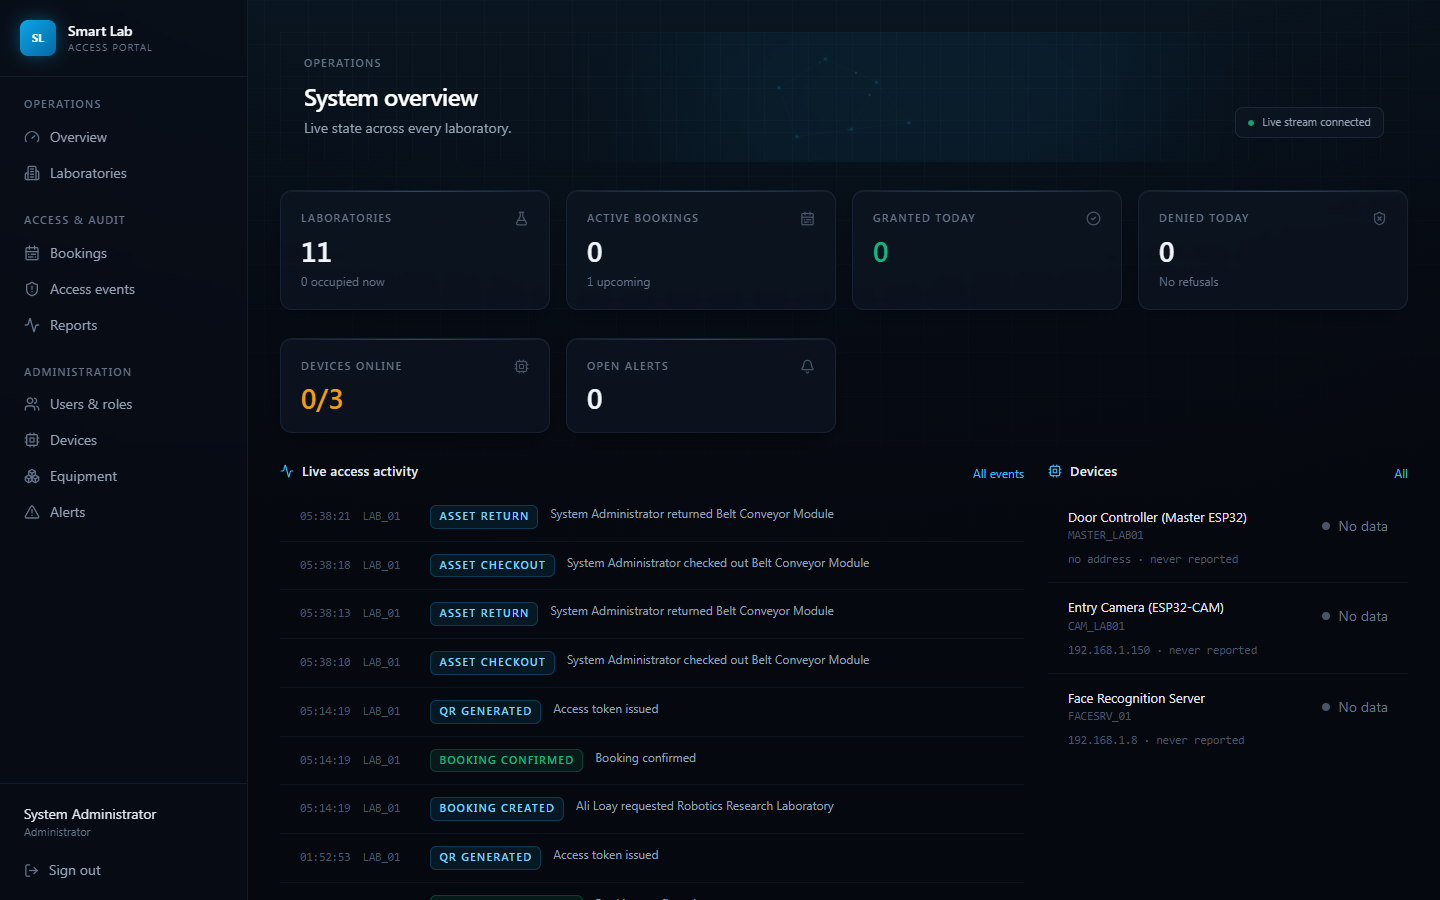
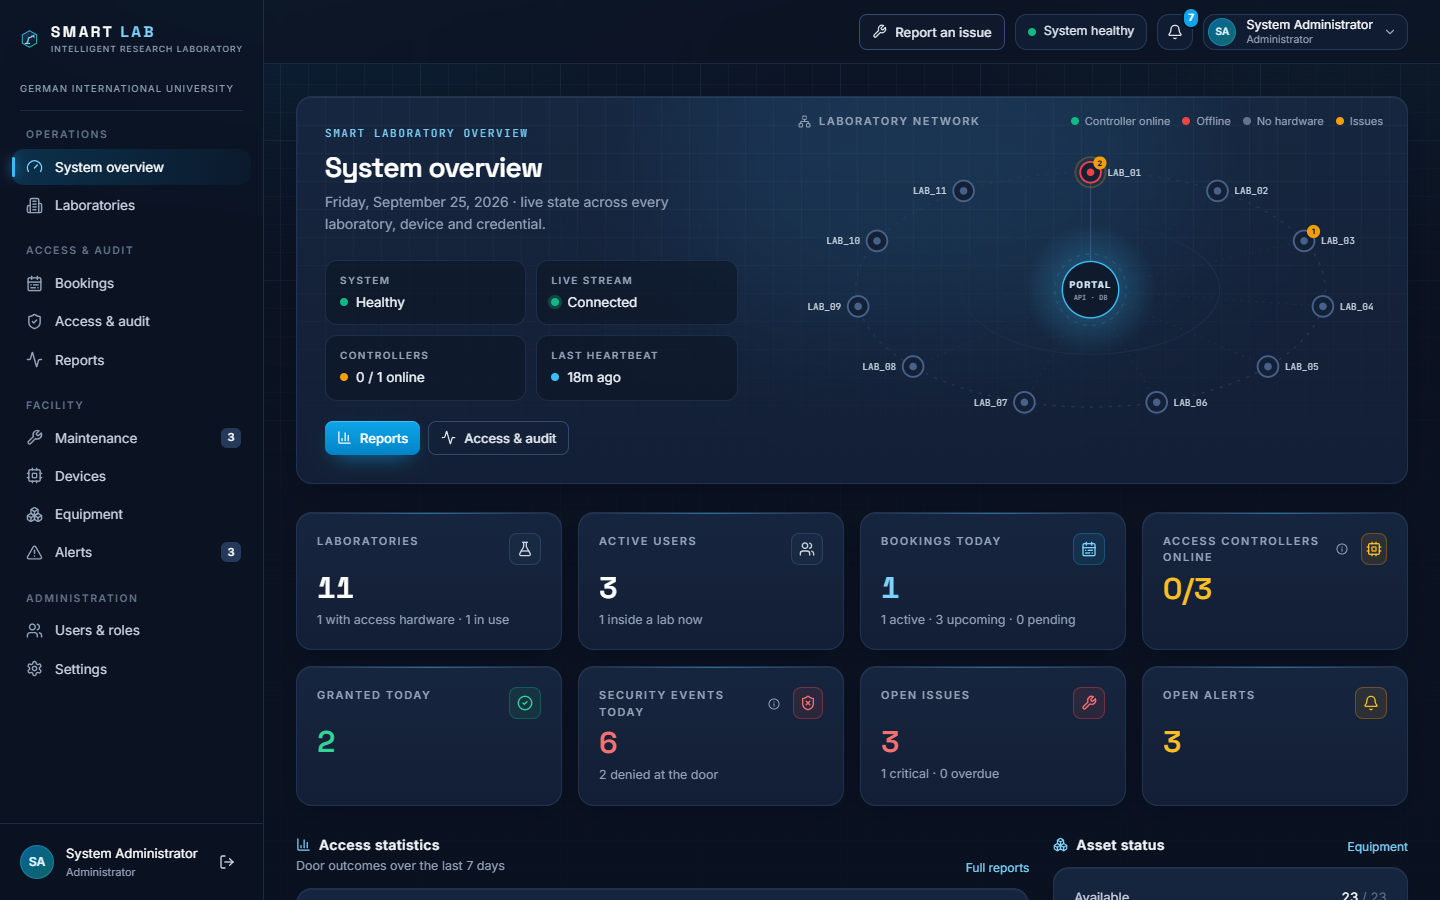
docs: README for maintenance, traceability, tests and new screenshots
Documents the issue workflow, why an exit is only recorded when observed,
the new privacy rules, 134 backend tests plus the browser navigation test,
the schema guard on upgrade, the optional heartbeat components and
EXIT_RECORDED event, and new limitations. Screenshots are of the new UI
with demo data, labelled as such.

diff --git a/README.md b/README.md
@@ -18,23 +18,38 @@ Research Laboratory Management System*, German International University, Cairo.
 
 ## Features
 
-- **Laboratory booking** with conflict detection across 11 laboratories
+- **Laboratory booking** across 11 laboratories, with live availability and conflict detection
 - **Time-bound QR credentials**, valid only for one lab and only inside the booking window
 - **Two-factor door access**: QR code or RFID card, then fingerprint or face recognition
-- **Live admin dashboard** with a WebSocket access timeline, device health and alerts
+- **Session traceability**: every booking reconstructs to the second — credential, both
+  factors and their identities, result, entry, door cycle — and an exit only when one is observed
+- **Maintenance workflow**: anyone can report a broken, missing or unsafe item with photos in
+  about a minute; staff triage, assign, fix and record it, with a full audit timeline
+- **Role-specific experiences** for students, laboratory staff and administrators
+- **Live operations**: authenticated WebSocket stream, device heartbeats with automatic
+  offline alerts, and in-portal notifications
 - **Full audit trail** of every attempt, with the reason it was allowed or refused, exportable to CSV
-- **Equipment checkout** and role-based access for students, lab staff and administrators
 - **Fails closed**: if the backend is down, a booking QR opens nothing
 
 ## Screenshots
 
+Demo data. The door events are simulated through the same device API the ESP32
+master uses. Laboratory images are illustrations of each discipline, not
+photographs of the rooms.
+
 | Sign in | Student dashboard |
 |---|---|
 | ![Sign in](docs/screenshots/login.png) | ![Student dashboard](docs/screenshots/student-dashboard.png) |
-| **Book a laboratory** | **Time-bound access QR** |
-| ![Booking wizard](docs/screenshots/book.png) | ![Booking QR credential](docs/screenshots/booking-qr.png) |
-| **Admin overview (live)** | **Access audit trail** |
-| ![Admin overview](docs/screenshots/admin-overview.png) | ![Access events](docs/screenshots/admin-access-events.png) |
+| **Laboratory network** | **A laboratory's control panel** |
+| ![Laboratories](docs/screenshots/laboratories.png) | ![Lab control panel](docs/screenshots/lab-control-panel.png) |
+| **Booking traced end to end** | **Time-bound access QR** |
+| ![Booking trace](docs/screenshots/booking-trace.png) | ![Access QR](docs/screenshots/access-qr.png) |
+| **Report an issue** | **Maintenance queue** |
+| ![Report an issue](docs/screenshots/report-issue.png) | ![Maintenance queue](docs/screenshots/maintenance-queue.png) |
+| **Issue workflow** | **Access monitor** |
+| ![Issue detail](docs/screenshots/issue-detail.png) | ![Access monitor](docs/screenshots/access-monitor.png) |
+| **System overview (admin)** | |
+| ![Admin overview](docs/screenshots/admin-overview.png) | |
 
 ---
 
@@ -136,6 +151,11 @@ npm run dev
 
 Open <http://localhost:5173>.
 
+**Upgrading an existing database:** always run `alembic upgrade head` after
+pulling. The API and `seed.py` refuse to start against a migrated database
+that is behind the code, and print that command, rather than half-creating
+new tables.
+
 ### Sign in
 
 | Email | Password | Role |
@@ -188,6 +208,54 @@ check this first if a valid booking is being denied.
 
 ---
 
+## Traceability: entry is not exit
+
+Opening a booking in the portal shows the whole session, reconstructed from
+the door's own events: the credential and how often it was accepted, step 1
+(QR or RFID) and the identity it resolved to, step 2 (face or fingerprint)
+and its identity, the result with the refusal reason if any, the first entry
+compared with the booked start, and the door opening and closing - every
+step timestamped to the second.
+
+**The door has no exit reader**, so the portal does not pretend to know when
+someone left. The door closing a few seconds after entry is recorded as part
+of the entry, *not* as an exit (earlier versions ended the session there,
+which made every visit look seconds long). A session ends with an observed
+exit (`EXIT_RECORDED`, which the device API already accepts), with the
+booking window closing, or with the door never being opened, and the portal
+states which. Duration inside is shown only when an exit was actually
+recorded.
+
+## Maintenance and issue reporting
+
+Anyone can report a laboratory problem - damaged, missing, malfunctioning,
+unsafe, software, network or access-control hardware - with photos, in about
+a minute. Reports arrive pre-filled from wherever the person started (a lab,
+an equipment item, a door device, a refused access event).
+
+- **Tickets** are numbered `ISS-YYYY-NNNNNN` and linked to the laboratory and,
+  where relevant, the equipment item, device or access event - each link
+  validated to belong to that laboratory.
+- **Workflow:** open -> acknowledged -> in progress <-> waiting for parts ->
+  resolved (notes required) -> closed (administrators), with rejection and
+  reopening. Every change writes a history row: the reporter's timeline and
+  the audit trail are the same records.
+- **Photos** are validated by decoding them (not by extension), rotated
+  upright, stripped of metadata including GPS position, scaled and
+  thumbnailed, and served only to people allowed to see the issue.
+  Maintenance photos are stored as *before*/*after* next to, never over, the
+  reporter's photos. Storage sits behind an interface: local disk now,
+  S3/MinIO later without schema changes.
+- **Permissions are enforced by the API:** students see only their own
+  reports (others are a 404), cannot move them through the workflow, and
+  never see staff-internal notes.
+- **Service levels** make "overdue" a published rule (critical 24 h, high 72 h,
+  medium 7 days, low 14 days, configurable).
+- **Notifications** in the portal for new and critical reports, assignment,
+  escalation, and every status change the reporter should know about.
+
+---
+
 ## Security properties, and how each is enforced
 
 | Property | Where it is enforced |
@@ -201,6 +269,9 @@ check this first if a valid booking is being denied.
 | Students cannot see each other's bookings | ownership check returns **404**, not 403 — existence is private |
 | Passwords are never stored | bcrypt via passlib |
 | No biometric material in the database | templates stay in the AS608; face images stay in `dataset/` |
+| Students cannot read other people's activity | lab activity, the live WebSocket stream and issue lists are scoped server-side |
+| The live stream is not a side door | the WebSocket requires the same JWT as the REST API |
+| Issue photos are not public files | served only through authenticated routes; EXIF/GPS stripped on upload |
 
 Every one of these has a test. See below.
 
@@ -219,16 +290,34 @@ DATABASE_URL=postgresql+psycopg://postgres:<password>@localhost:5432/smartlab_te
 Use a dedicated test database, never your real one. GitHub Actions runs the
 same suite against a PostgreSQL service container on every push.
 
-**61 tests, against real PostgreSQL** — not SQLite, because `TIMESTAMPTZ`
+**134 tests, against real PostgreSQL** — not SQLite, because `TIMESTAMPTZ`
 comparison is precisely what must not be tested on a different engine than
 production runs.
-
-Two suites:
 
 - `test_authorization.py` — every non-negotiable rule: QR before / during /
   after its window, wrong lab, cancelled, unknown, revoked, inactive user,
   identity mismatch, booking conflicts, and role isolation between students.
 - `test_qr_pipeline.py` — the hard requirement, below.
+- `test_issues.py` — the maintenance workflow: scoping, validation,
+  asset/lab consistency, photo validation and privacy, transitions, the
+  ordered audit trail, internal notes, links to equipment and labs.
+- `test_traceability.py` — the door closing is never an exit, full booking
+  traces, supersession and booking-end handling.
+- `test_portal.py` — availability without identities, role scoping,
+  notifications, device offline detection, and WebSocket authentication and
+  cross-thread delivery.
+
+### Navigation in a real browser
+
+```bash
+cd frontend
+npm run test:e2e            # E2E_CPU_THROTTLE=6 to emulate a slow machine
+```
+
+Signs in as each role and walks every route - sidebar clicks, the student
+journey from laboratory to QR, rapid clicking, back/forward, direct URLs,
+reloads and an expired session - failing on any blank or invisible page,
+error screen or console error. CI runs it against the production build.
 
 ### End-to-end
 
@@ -309,6 +398,15 @@ What changed, and nothing else:
   payloads; legacy still works locally so the bench demo survives the portal
   being off
 
+The device API also accepts, without firmware changes being required:
+
+- an `EXIT_RECORDED` event (for a future exit button or reader), which is
+  the only thing that gives a session an exit time;
+- optional `components` in the heartbeat, e.g.
+  `{"rfid": true, "fingerprint": true, "relay_locked": true}`. Until the
+  firmware sends them, the portal labels those states "not reported" instead
+  of inferring them.
+
 What did **not** change, verified by diff: all 26 safety-critical constants
 (pins, `RELAY_LOCKED_LEVEL = HIGH`, `DENY_ALERT_ENABLED = false`, freshness
 windows, timeouts), and the relay write sites — still exactly two, both in the
@@ -326,11 +424,20 @@ state machine, neither reachable from network code.
    run face recognition at usable speed.
 3. **Sensor data is structure only.** `sensor_readings` exists and the lab page
    renders it, but nothing writes to it until a real sensor node is deployed.
-   The UI shows "No data available" rather than inventing values.
-4. **Denial buzzer disabled in firmware.** Energizing it sags the 12V rail
+   The UI shows "No live sensor data" rather than inventing values.
+4. **No exit detection.** The door reports entries, not exits, so time spent
+   inside is only measured once an exit reader or button reports
+   `EXIT_RECORDED`. Until then the portal says an exit was not recorded.
+5. **Photos on local disk.** Issue photos live in `backend/uploads` (a Docker
+   volume in compose). Back it up with the database, or move to object
+   storage via the storage interface.
+6. **Device history.** The portal keeps each device's latest heartbeat and
+   its online/offline events, not a heartbeat time series, so uptime is not
+   charted.
+7. **Denial buzzer disabled in firmware.** Energizing it sags the 12V rail
    enough to drop the relay. Fix is a 470–1000 µF capacitor across the rail;
    see `docs/DOOR_SYSTEM.md`.
-5. **Development server.** `uvicorn` directly and Flask's dev server are fine
+8. **Development server.** `uvicorn` directly and Flask's dev server are fine
    for a laboratory on a private LAN. A public deployment wants a proper WSGI
    or ASGI server behind TLS.
 
@@ -342,17 +449,20 @@ state machine, neither reachable from network code.
 smart-lab-portal/
 ├── backend/          FastAPI, SQLAlchemy, Alembic, tests
 │   ├── app/
-│   │   ├── api/routes/    auth, labs, bookings, access (device), admin
+│   │   ├── api/routes/    auth, labs, bookings, access (device), admin,
+│   │   │                  issues, notifications, system
 │   │   ├── core/          config, security
-│   │   ├── models/        16 tables
-│   │   ├── services/      access, booking, events  ← the security lives here
-│   │   └── ws/            live activity broadcast
-│   ├── alembic/      migrations
-│   └── tests/        61 unit + 30 end-to-end assertions
+│   │   ├── models/        21 tables
+│   │   ├── services/      access, booking, sessions, issues, storage,
+│   │   │                  notifications, devices  ← the rules live here
+│   │   └── ws/            authenticated live stream
+│   ├── alembic/      migrations (checked against the models in CI)
+│   └── tests/        134 tests + 30 end-to-end assertions
 ├── frontend/         React 18, TypeScript, Vite, Tailwind
+│   └── e2e/          real-browser navigation test
 ├── firmware/         master (portal), camera, face server
 ├── docs/             door subsystem reference, screenshots
-├── .github/workflows CI: backend tests + frontend build
+├── .github/workflows CI: backend tests, migrations, build, browser test
 └── docker-compose.yml
 ```
 
